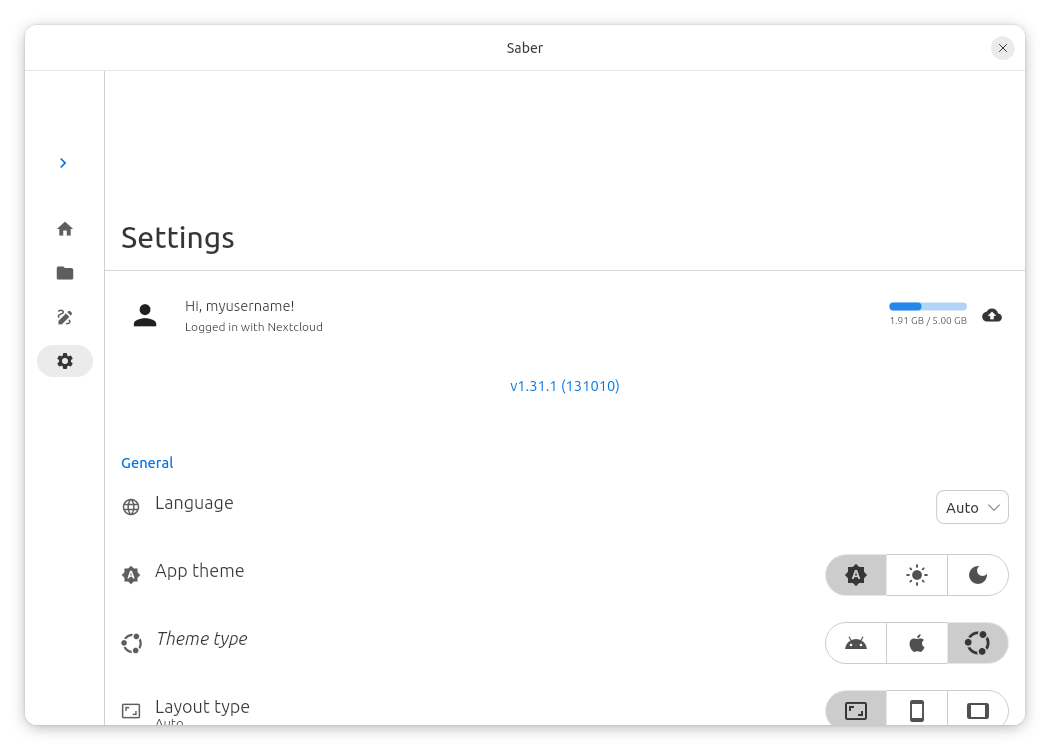
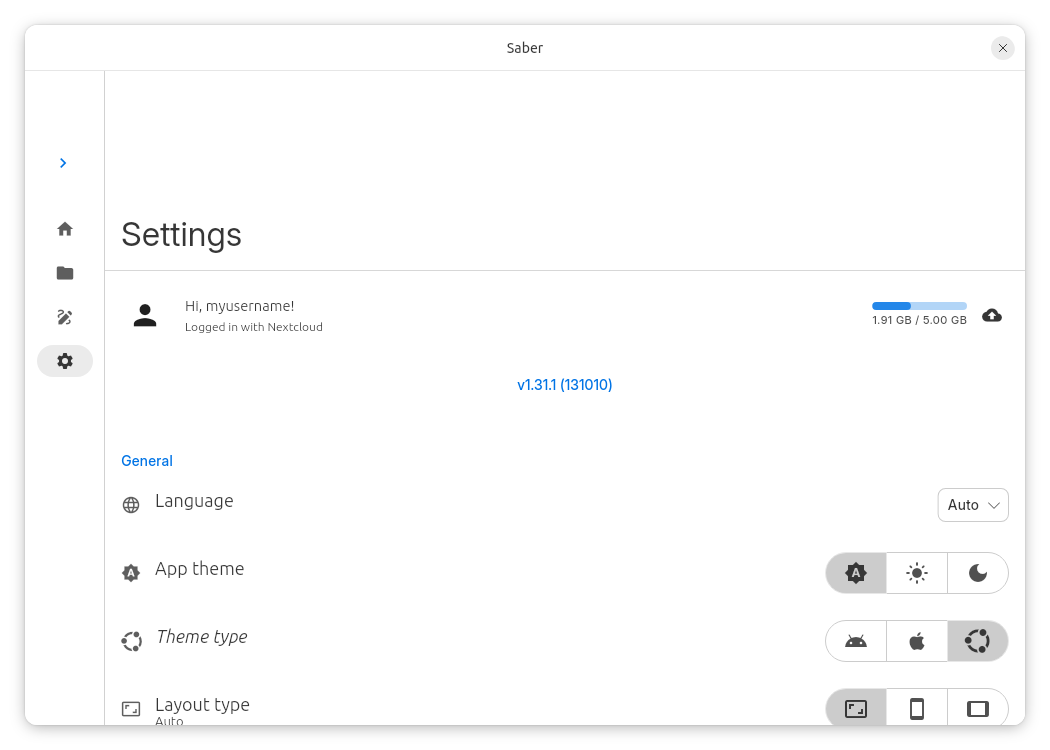
tweak: prefer Adwaita Sans over Ubuntu font

diff --git a/lib/components/theming/saber_theme.dart b/lib/components/theming/saber_theme.dart
@@ -15,7 +15,7 @@ abstract class SaberTheme {
     return ThemeData(
       useMaterial3: true,
       colorScheme: colorScheme,
-      textTheme: _Components.textTheme(colorScheme.brightness),
+      textTheme: _Components.textTheme(platform, colorScheme),
       platform: platform,
       progressIndicatorTheme: _Components.progressIndicatorTheme,
       cardColor: colorScheme.surface,
@@ -99,7 +99,7 @@ abstract class SaberTheme {
   ) {
     return base.copyWith(
       platform: platform,
-      textTheme: _Components.textTheme(base.brightness),
+      textTheme: _Components.textTheme(platform, base.colorScheme),
       progressIndicatorTheme: _Components.progressIndicatorTheme,
       cardTheme: _Components.cardTheme(base.colorScheme),
       cupertinoOverrideTheme: _Components.cupertinoOverrideTheme,
@@ -110,14 +110,25 @@ abstract class SaberTheme {
 }
 
 abstract class _Components {
-  static TextTheme? textTheme(Brightness brightness) {
+  static TextTheme textTheme(TargetPlatform platform, ColorScheme colorScheme) {
+    final typography = Typography.material2021(
+      platform: platform,
+      colorScheme: colorScheme,
+    );
+    final textTheme = colorScheme.brightness == .dark
+        ? typography.white
+        : typography.black;
+
     if (stows.hyperlegibleFont.value) {
-      return ThemeData(brightness: brightness).textTheme.withFont(
+      return textTheme.withFont(
         fontFamily: 'AtkinsonHyperlegibleNext',
         fontFamilyFallback: saberSansSerifFontFallbacks,
       );
+    } else if (platform == .linux) {
+      // Flutter picks Roboto but Adwaita Sans is a better default
+      return textTheme.withFont(fontFamily: 'Adwaita Sans');
     } else {
-      return null;
+      return textTheme;
     }
   }
 

diff --git a/test/theme_test.dart b/test/theme_test.dart
@@ -71,7 +71,7 @@ void _testTheme({
           ? 'AtkinsonHyperlegibleNext'
           : switch (platform) {
               .iOS => RegExp('CupertinoSystem(Display|Text)'),
-              .linux => 'packages/yaru/Ubuntu',
+              .linux => 'Adwaita Sans',
               .macOS => '.AppleSystemUIFont',
               .windows => 'Segoe UI',
               _ => 'Roboto',

diff --git a/packages/sbn/lib/font_fallbacks.dart b/packages/sbn/lib/font_fallbacks.dart
@@ -51,7 +51,7 @@ const saberHandwritingFontFallbacks = [
 extension TextThemeExtension on TextTheme {
   TextTheme withFont({
     required String? fontFamily,
-    required List<String>? fontFamilyFallback,
+    List<String>? fontFamilyFallback,
   }) => copyWith(
     displayLarge: displayLarge?.copyWith(
       fontFamily: fontFamily,
